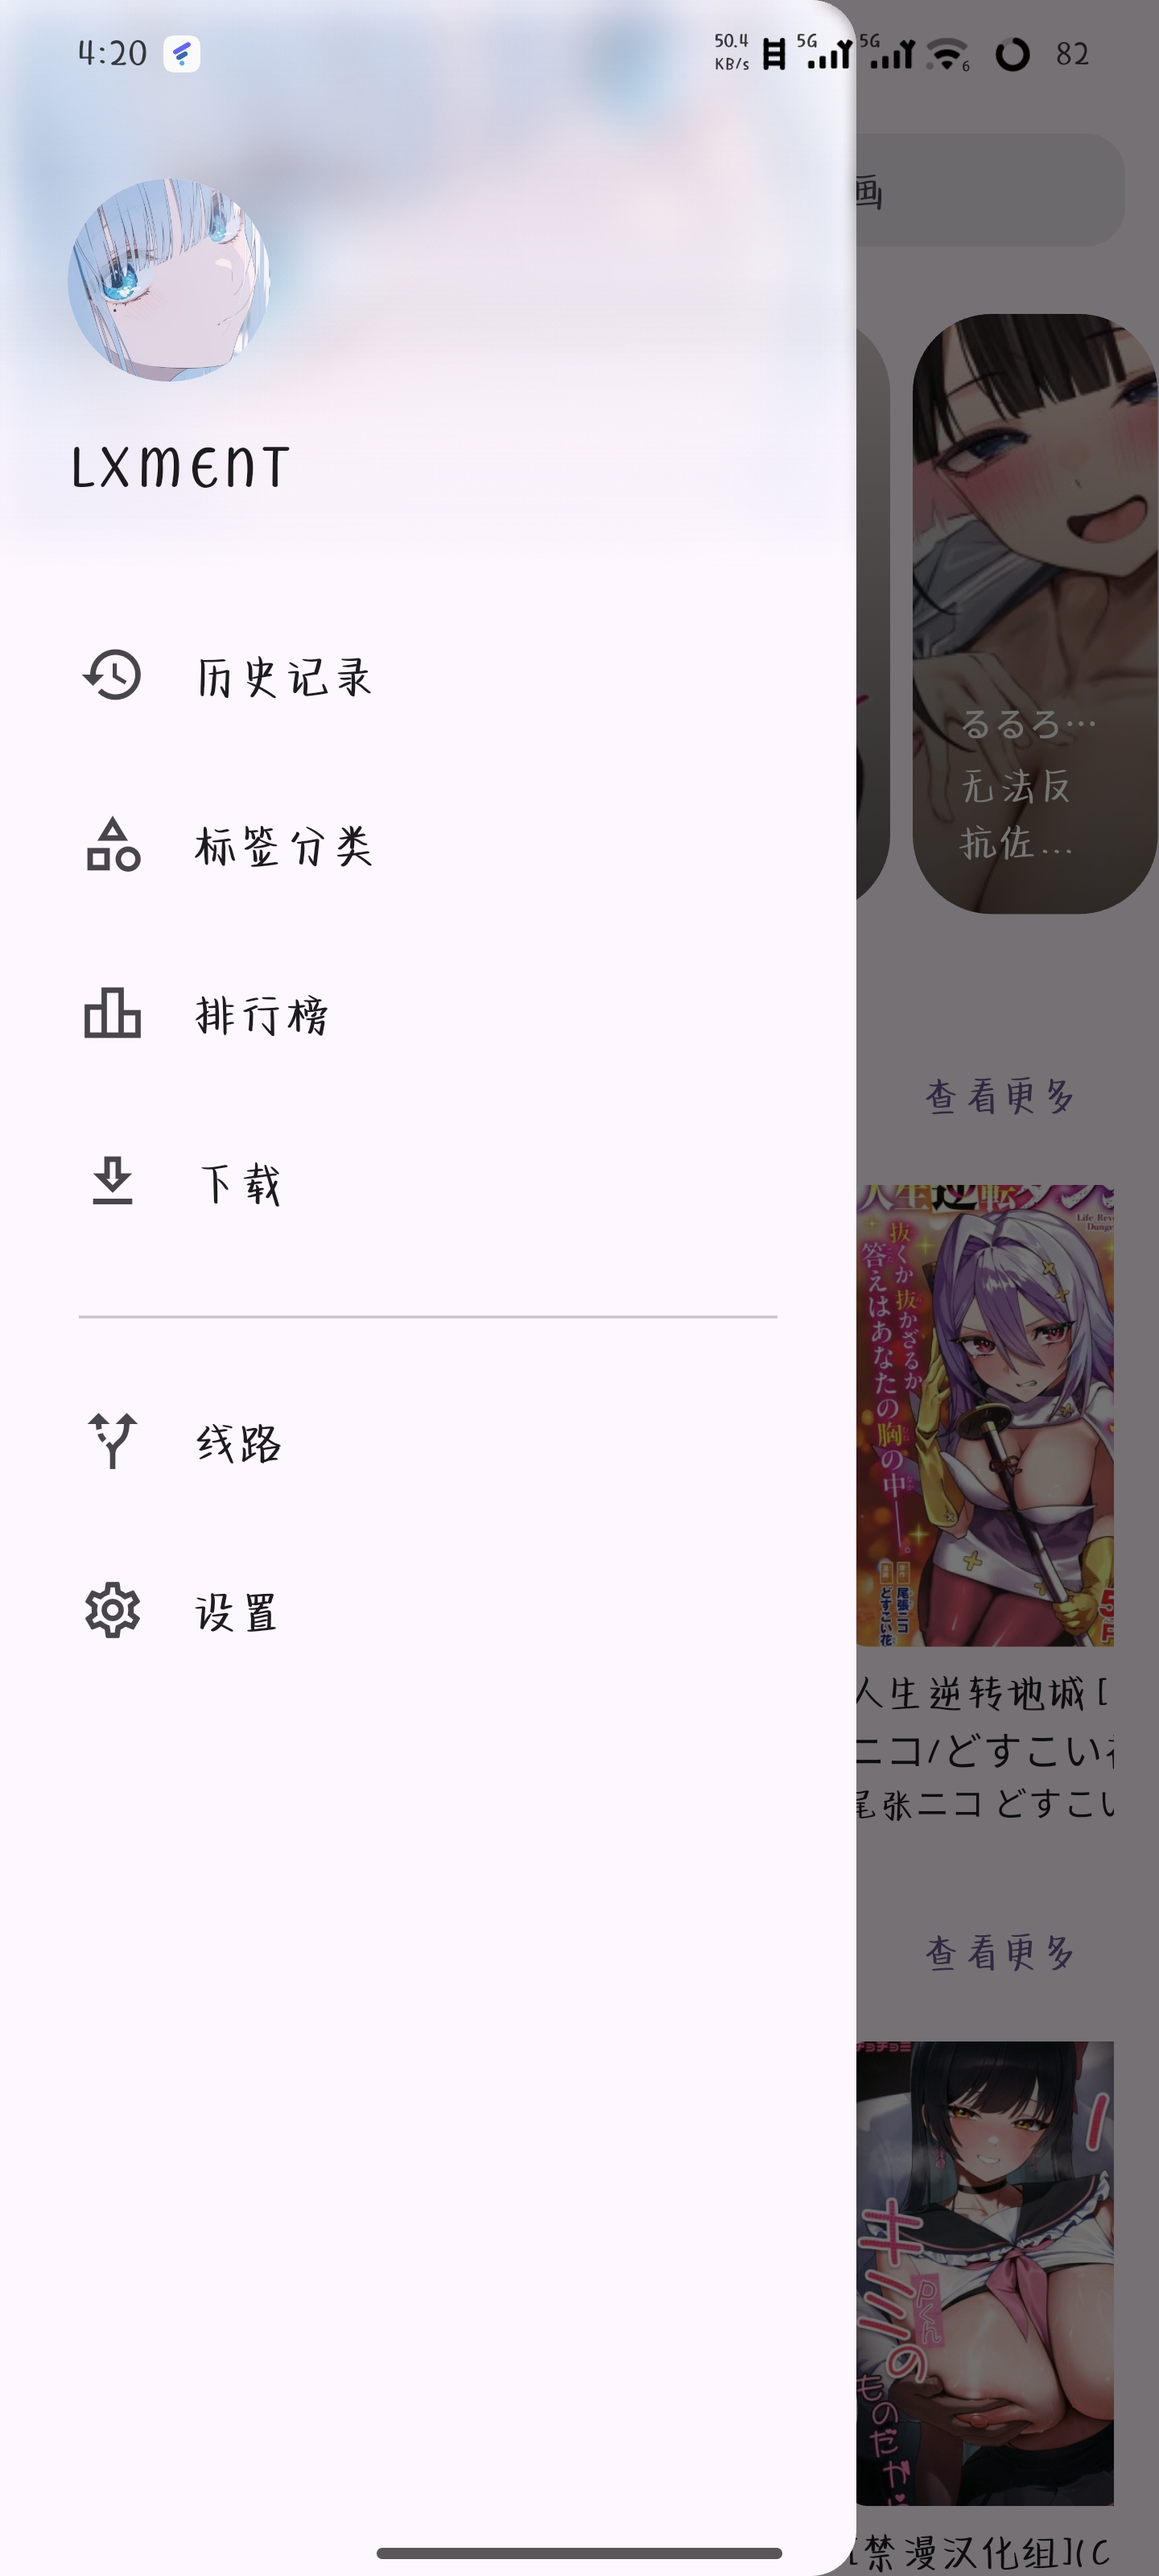
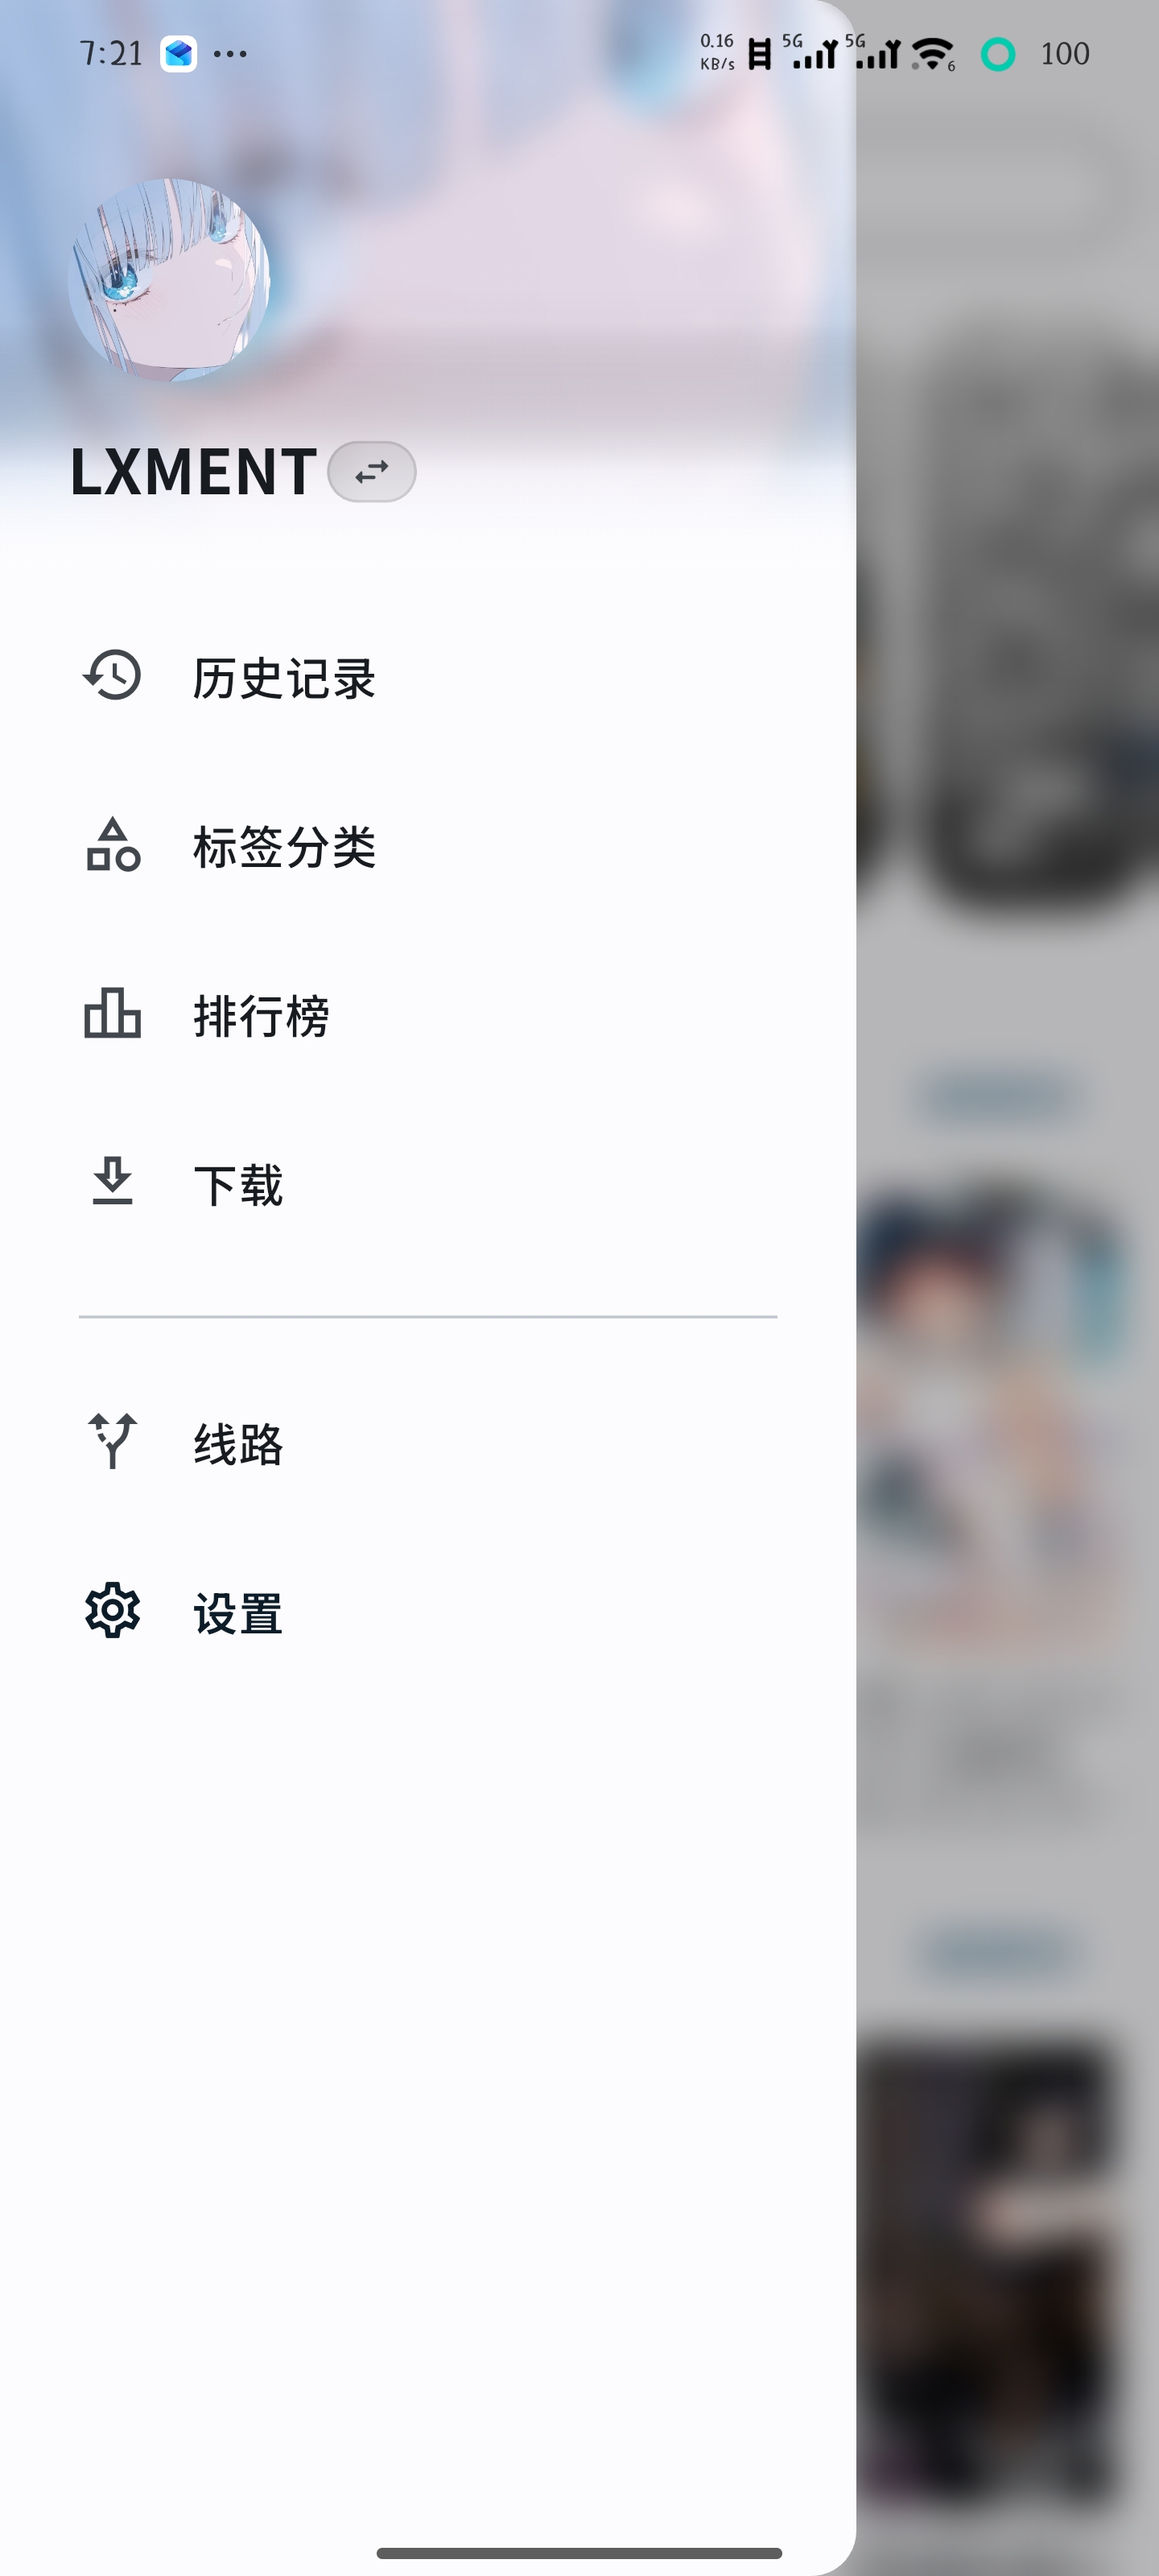
docs: update README and screenshots; fix hero tag builder in search page test

diff --git a/test/pages/search/search_entry_page_test.dart b/test/pages/search/search_entry_page_test.dart
@@ -31,7 +31,7 @@ void main() {
       _buildTestApp(
         SearchEntryPage(
           comicDetailPageBuilder: _comicDetailPageBuilder,
-          comicCoverHeroTagBuilder: (_, {String? salt}) => 'hero-$salt',
+          comicCoverHeroTagBuilder: _testComicCoverHeroTag,
           searchPageLoader: _fakeSearchPageLoader,
         ),
       ),
@@ -63,7 +63,7 @@ void main() {
       _buildTestApp(
         SearchEntryPage(
           comicDetailPageBuilder: _comicDetailPageBuilder,
-          comicCoverHeroTagBuilder: (_, {String? salt}) => 'hero-$salt',
+          comicCoverHeroTagBuilder: _testComicCoverHeroTag,
           searchPageLoader: _fakeSearchPageLoader,
         ),
       ),
@@ -104,7 +104,7 @@ void main() {
       _buildTestApp(
         SearchEntryPage(
           comicDetailPageBuilder: _comicDetailPageBuilder,
-          comicCoverHeroTagBuilder: (_, {String? salt}) => 'hero-$salt',
+          comicCoverHeroTagBuilder: _testComicCoverHeroTag,
           searchPageLoader: _fakeSearchPageLoader,
         ),
       ),
@@ -127,7 +127,7 @@ void main() {
         _buildTestApp(
           SearchEntryPage(
             comicDetailPageBuilder: _comicDetailPageBuilder,
-            comicCoverHeroTagBuilder: (_, {String? salt}) => 'hero-$salt',
+            comicCoverHeroTagBuilder: _testComicCoverHeroTag,
             searchPageLoader: _fakeSearchPageLoader,
           ),
         ),
@@ -166,7 +166,7 @@ void main() {
       _buildTestApp(
         SearchEntryPage(
           comicDetailPageBuilder: _comicDetailPageBuilder,
-          comicCoverHeroTagBuilder: (_, {String? salt}) => 'hero-$salt',
+          comicCoverHeroTagBuilder: _testComicCoverHeroTag,
           searchPageLoader: _recordingSearchPageLoader(requests),
         ),
       ),
@@ -218,7 +218,7 @@ void main() {
       _buildTestApp(
         SearchEntryPage(
           comicDetailPageBuilder: _comicDetailPageBuilder,
-          comicCoverHeroTagBuilder: (_, {String? salt}) => 'hero-$salt',
+          comicCoverHeroTagBuilder: _testComicCoverHeroTag,
           searchPageLoader: _recordingSearchPageLoader(requests),
         ),
       ),
@@ -255,7 +255,7 @@ void main() {
       _buildTestApp(
         SearchEntryPage(
           comicDetailPageBuilder: _comicDetailPageBuilder,
-          comicCoverHeroTagBuilder: (_, {String? salt}) => 'hero-$salt',
+          comicCoverHeroTagBuilder: _testComicCoverHeroTag,
           searchPageLoader: _fakeSearchPageLoader,
         ),
       ),
@@ -284,7 +284,7 @@ void main() {
         SearchPage(
           initialKeyword: 'external-tag',
           comicDetailPageBuilder: _comicDetailPageBuilder,
-          comicCoverHeroTagBuilder: (_, {String? salt}) => 'hero-$salt',
+          comicCoverHeroTagBuilder: _testComicCoverHeroTag,
           searchPageLoader: _fakeSearchPageLoader,
         ),
       ),
@@ -305,7 +305,7 @@ void main() {
         SearchPage(
           initialKeyword: 'hazuki',
           comicDetailPageBuilder: _comicDetailPageBuilder,
-          comicCoverHeroTagBuilder: (_, {String? salt}) => 'hero-$salt',
+          comicCoverHeroTagBuilder: _testComicCoverHeroTag,
           searchPageLoader: _fakeSearchPageLoader,
         ),
       ),
@@ -371,6 +371,10 @@ Widget _buildTestApp(Widget home) {
     supportedLocales: AppLocalizations.supportedLocales,
     home: home,
   );
+}
+
+String _testComicCoverHeroTag(ExploreComic comic, {String? salt}) {
+  return 'hero-${salt ?? 'search'}-${comic.id}';
 }
 
 Future<void> _pumpSearchSettled(WidgetTester tester) async {

diff --git a/README.md b/README.md
@@ -7,6 +7,7 @@
 
 ## 功能
 
+- 支持多源切换（当前支持：**禁漫天堂**、**哔咔漫画**、**拷贝漫画**）
 - 浏览首页推荐、连载更新、排行榜
 - 搜索漫画，按标签分类筛选
 - 收藏夹
